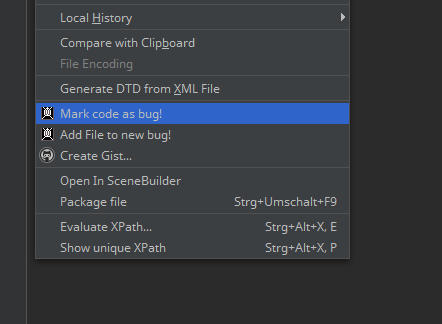
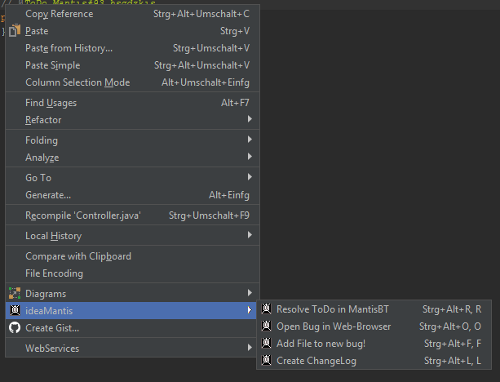
update resources and readme

diff --git a/README.md b/README.md
@@ -3,14 +3,21 @@
 
 ## ideaMantis - Functions
 
-![ideaMantis - Settings-Screen](https://raw.githubusercontent.com/domjos1994/ideaMantis/master/resources/de/domjos/ideaMantis/images/ideaMantis_settings.png "ideaMantis - Settings-Screen") <br/>
+![ideaMantis - Settings-Screen](https://raw.githubusercontent.com/domjos1994/ideaMantis/master/resources/de/domjos/ideaMantis/images/ideaMantis_settings_connection.png "ideaMantis - Settings-Screen") <br/>
 Connect to your installation of Mantis-BugTracker with the Settings-Screen of ideaMantis.
+
+![ideaMantis - Settings-Screen](https://raw.githubusercontent.com/domjos1994/ideaMantis/master/resources/de/domjos/ideaMantis/images/ideaMantis_settings_project.png "ideaMantis - Project") <br/>
+Choose an available project.
+
+![ideaMantis - Settings-Screen](https://raw.githubusercontent.com/domjos1994/ideaMantis/master/resources/de/domjos/ideaMantis/images/ideaMantis_settings_newProject.png "ideaMantis - new Project") <br/>
+Or add a new Project.
 
 ![ideaMantis - Screen](https://raw.githubusercontent.com/domjos1994/ideaMantis/master/resources/de/domjos/ideaMantis/images/ideaMantis_screen.png "ideaMantis - Screen")  <br/>
 Open new Issues, solve new Issues, add some notes to an Issue, add attachments like images to an Issue or read details about it.<br/> Everything is possible with the PlugIn ideaMantis.
 
 ![ideaMantis - ContextMenu](https://raw.githubusercontent.com/domjos1994/ideaMantis/master/resources/de/domjos/ideaMantis/images/ideaMantis_context.png "ideaMantis - ContextMenu") <br/>
 You can create new Issues directly from a document. Add an open File as Attachment or mark code in a file as Bug!
+You can also add ToDos as new Bug or resolve it with an shortcut.
 
 ## Libraries
 
